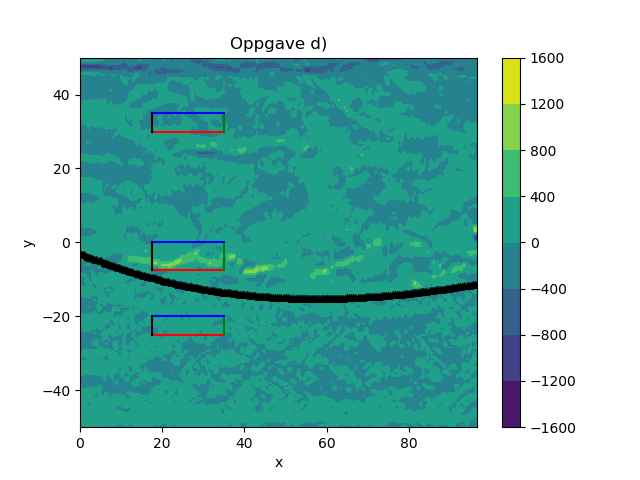
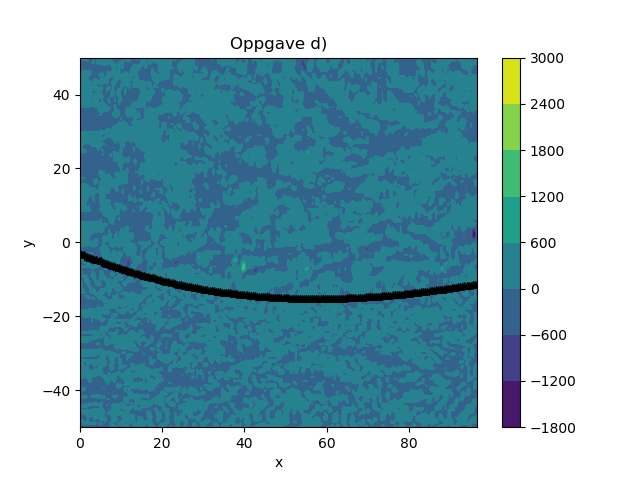
semi done

diff --git a/oblig/oppgave_f.py b/oblig/oppgave_f.py
@@ -22,7 +22,7 @@ def rectangle(x1, x2, y1, y2):
     # Bottom
     plt.plot([position1[0], position2[0]], [position1[1], position1[1]], "r")
 
-    # Right
+    # Righ
     plt.plot([position2[0], position2[0]], [position1[1], position2[1]], "g")
 
     # Top
@@ -46,57 +46,74 @@ def draw_rectangles():
               rectangle3_values[2], rectangle3_values[3])
 
 
-plt.plot(xit, yit, "k*")
-num_skip = 5
-plt.quiver(x[::num_skip, ::num_skip], y[::num_skip, ::num_skip],
-           u[::num_skip, ::num_skip], v[::num_skip, ::num_skip])
-
-plt.title("Oppgave c)")
-plt.xlabel("x")
-plt.ylabel("y")
-
-plt.savefig("oppgave_c.png")
-
-"""
-oppgave d
-"""
-
-dudx = np.gradient(u, 0.5, axis=1)
-dvdy = np.gradient(v, 0.5, axis=0)
-
-divergence = dudx + dvdy
-print(f"The divergence is {divergence}")
-
-plt.contourf(x, y, divergence)
-plt.colorbar()
-plt.title("Oppgave d)")
-plt.savefig("oppgave_d.png")
-plt.close()
-
-"""
-oppgave e
-Had to redraw a lot so first couple of lines are just that
-"""
-draw_rectangles()
-plt.plot(xit, yit, "k*")
-num_skip = 5
-plt.quiver(x[::num_skip, ::num_skip], y[::num_skip, ::num_skip],
-           u[::num_skip, ::num_skip], v[::num_skip, ::num_skip])
-plt.plot(xit, yit, "k*")
-"""
-New stuff
-"""
-
 dudy = np.gradient(u, 0.5, axis=0)
 dvdx = np.gradient(v, 0.5, axis=1)
 
 curl_v = dvdx - dudy
 
-curl_plot = plt.contourf(x, y, curl_v)
-plt.streamplot(x, y, u, v, color="orange")
-plt.colorbar()
 
-plt.title("Oppgave e)")
+def kurveintegral(x1, y1, x2, y2):
+    side1 = 0
+    side2 = 0
+    side3 = 0
+    side4 = 0
+    dx = 0.5
+    dy = 0.5
 
-plt.savefig("oppgave_e.png")
-plt.show()
+    for k in u[y1, x1:x2+1]:
+        side1 += k*dx
+
+    for k in v[x2, y1:y2+1]:
+        side2 += k*dy
+
+    for k in u[y2, x1:x2+1]:
+        side3 -= k*dx
+
+    for k in v[x1, y1:y2+1]:
+        side4 -= k*dy
+
+    sumation = side1 + side2 + side3 + side4
+    return sumation
+
+
+def flateintegral(x1, y1, x2, y2):
+    integral = 0
+    dx = 0.5
+    dy = 0.5
+    for i in range(x1, x2+1):
+        for j in range(y1, y2+1):
+            integral += curl_v[j, i]*dx*dy
+
+    return integral
+
+
+print(kurveintegral(34, 159, 69, 169), kurveintegral(34, 84, 69, 99),
+      kurveintegral(34, 49, 69, 59))
+print(flateintegral(34, 159, 69, 169), flateintegral(34, 84, 69, 99),
+      flateintegral(34, 49, 69, 59))
+
+
+def gaus(x1, y1, x2, y2):
+    side1 = 0
+    side2 = 0
+    side3 = 0
+    side4 = 0
+    dx = 0.5
+    dy = 0.5
+    dz = 1
+
+    for k in v[y1, x1:x2+1]:
+        side1 -= k*dx*dz
+
+    for k in u[x2, y1:y2+1]:
+        side2 += k*dy*dz
+
+    for k in v[y2, x1:x2+1]:
+        side3 += k*dx*dz
+
+    for k in u[x1, y1:y2+1]:
+        side4 -= k*dy*dz
+
+    sumation = side1 + side2 + side3 + side4
+    return sumation
+
